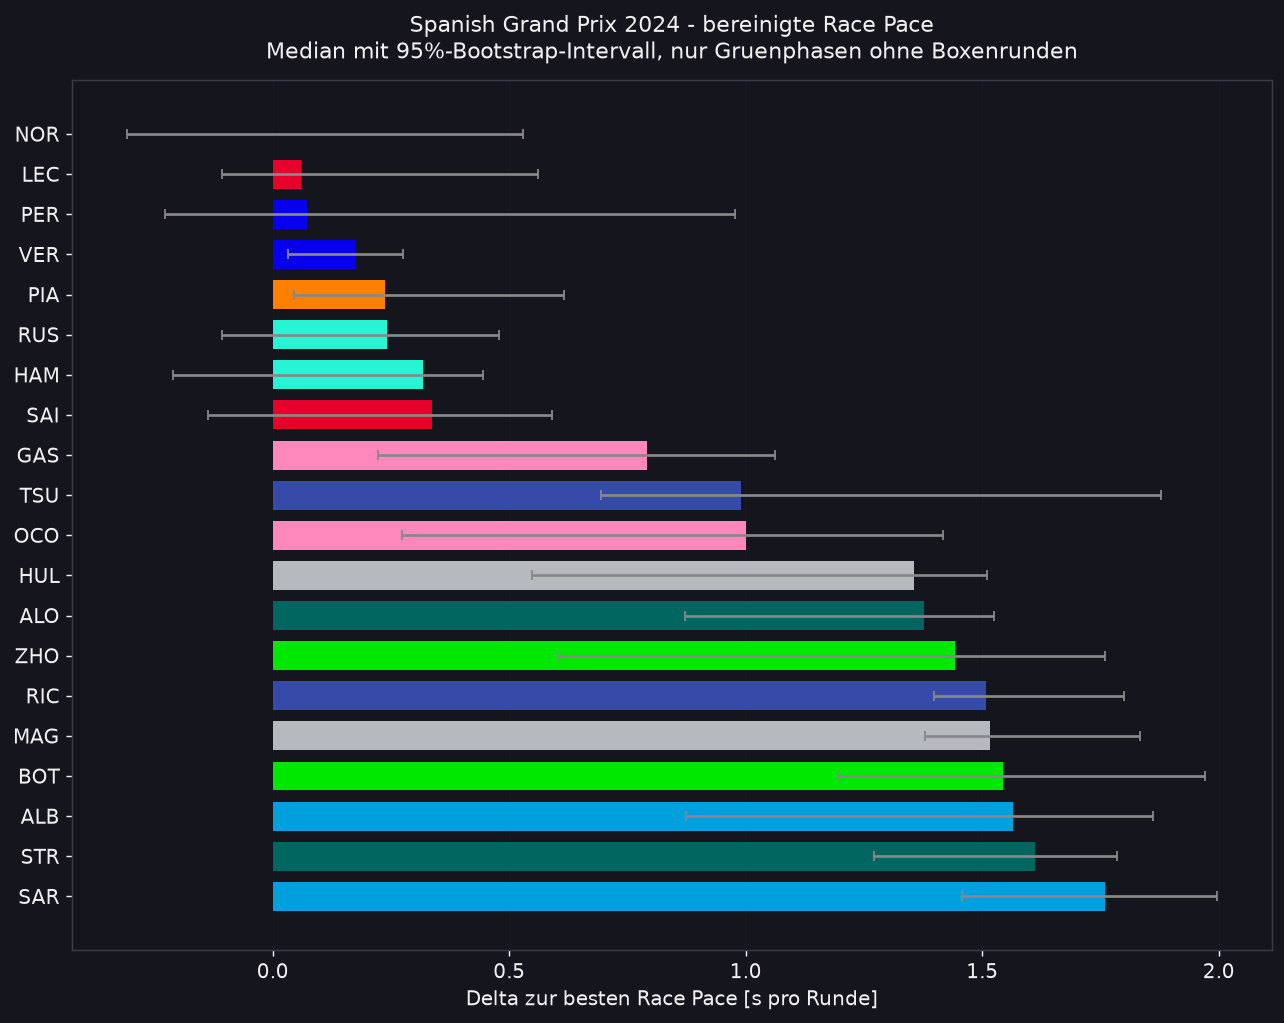
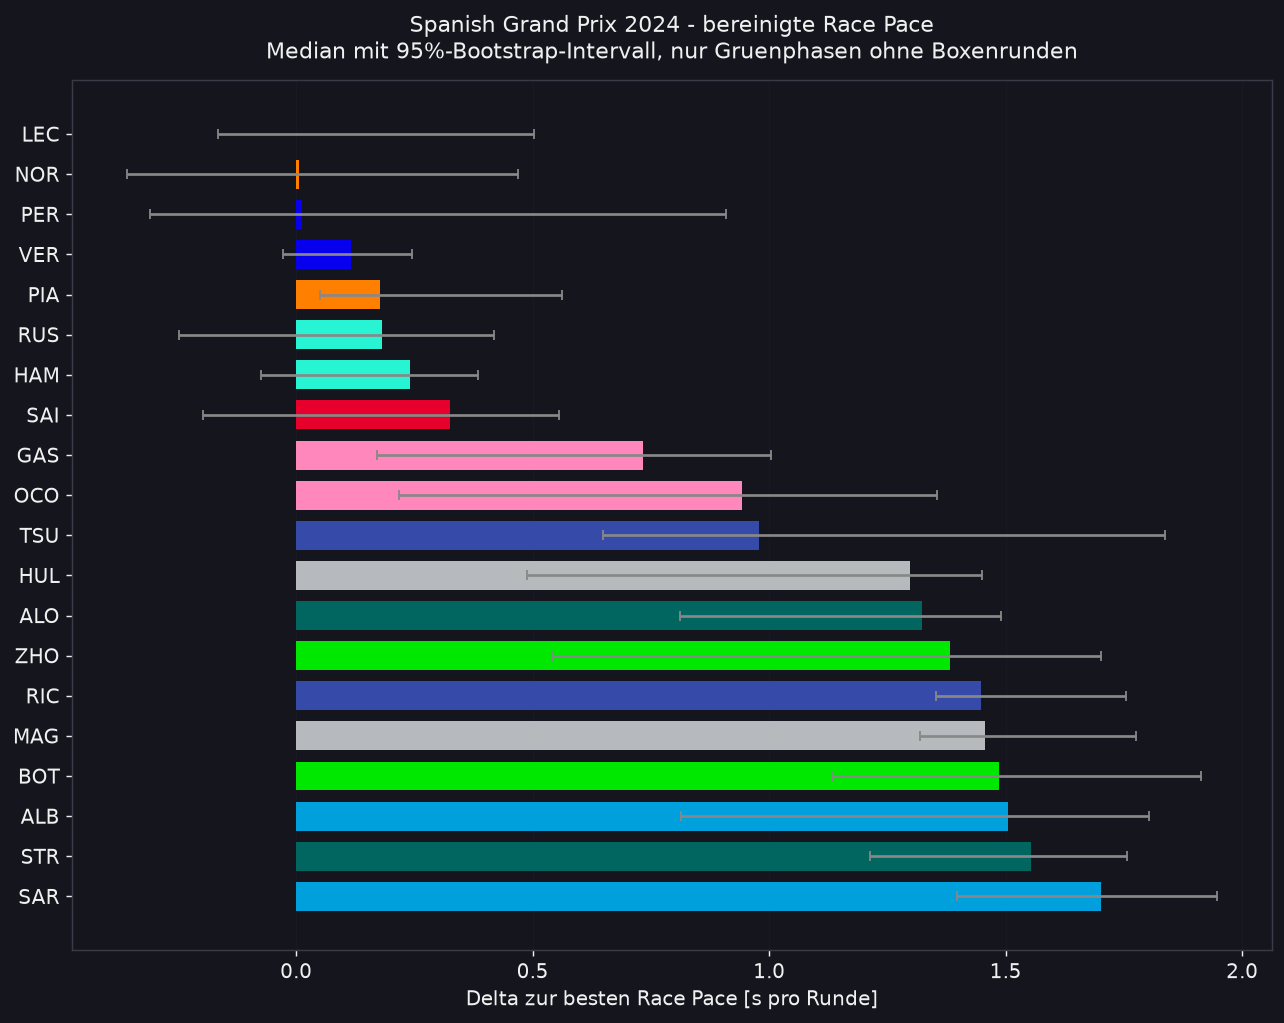
Eine Pipeline: make_assets.py rechnet ueber f1lab
Das Skript hatte eine eigene Kopie der Filterlogik. Nach dem Bugfix an der
Deleted-Spalte lieferten beide Pfade unterschiedliche Ergebnisse fuer
dieselbe Frage - das README nannte Norris als schnellsten Fahrer in
Barcelona, f1lab dagegen Leclerc.

- make_assets.py nutzt jetzt f1lab.load, clean_laps, pace_table, stints,
  degradation und fuel_correct statt eigener Implementierungen
- Grafiken und Kennzahlen neu erzeugt
- README-Zahlen entsprechend aktualisiert, inklusive der Einordnung, dass
  die ersten drei in Barcelona wegen ueberlappender Konfidenzintervalle
  nicht unterscheidbar sind
- kennzahlen.json vermerkt, mit welcher f1lab-Version sie entstand

diff --git a/make_assets.py b/make_assets.py
@@ -4,6 +4,11 @@ Erzeugt die Grafiken und Kennzahlen fuer das README.
 
     python make_assets.py
 
+Alle Auswertungen laufen ueber f1lab - das Modul, das auch getestet wird.
+Frueher hatte dieses Skript eine eigene Kopie der Filterlogik, was nach einem
+Bugfix in f1lab zu zwei unterschiedlichen Ergebnissen fuer dieselbe Frage
+gefuehrt hat. Genau das soll hier nicht mehr passieren.
+
 Schreibt PNGs nach assets/ und die berechneten Werte nach
 assets/kennzahlen.json. Der erste Lauf dauert einige Minuten, weil die
 Sessions heruntergeladen werden - danach kommt alles aus dem Cache.
@@ -15,15 +20,15 @@ import warnings
 from pathlib import Path
 
 import matplotlib
+
 matplotlib.use("Agg")                      # kein Fenster, nur Dateien
 
 import matplotlib.pyplot as plt
 import numpy as np
-import pandas as pd
 from matplotlib.collections import LineCollection
 
-import fastf1
 import fastf1.plotting as f1plt
+import f1lab
 from fastf1.utils import delta_time
 
 warnings.filterwarnings("ignore")
@@ -32,13 +37,12 @@ ROOT = Path(__file__).parent
 ASSETS = ROOT / "assets"
 ASSETS.mkdir(exist_ok=True)
 
-fastf1.Cache.enable_cache(str(Path.home() / "f1_cache"))
+f1lab.enable_cache()
 f1plt.setup_mpl(mpl_timedelta_support=False, color_scheme="fastf1")
 
 DPI = 130
 BG = "#15151e"
 FG = "#f0f0f0"
-ACCENT = "#e10600"
 
 plt.rcParams.update({
     "figure.facecolor": BG, "axes.facecolor": BG,
@@ -58,22 +62,10 @@ def save(fig, name: str) -> None:
     print(f"    -> {path.relative_to(ROOT)}  ({path.stat().st_size // 1024} KB)")
 
 
-def load(year, gp, ident, **kw):
-    ses = fastf1.get_session(year, gp, ident)
-    ses.load(**kw)
-    return ses
-
-
-def clean(session, threshold=1.07):
-    return (session.laps.pick_wo_box().pick_accurate()
-            .pick_track_status("1").pick_not_deleted()
-            .pick_quicklaps(threshold=threshold))
-
-
 # ---------------------------------------------------------------- 1
 def gear_map(year=2024, gp="Belgium"):
     print(f"[1/5] Gangwechsel-Karte  {gp} {year}")
-    ses = load(year, gp, "Q")
+    ses = f1lab.load(year, gp, "Q", telemetry=True)
     lap = ses.laps.pick_fastest()
     tel = lap.get_telemetry()
 
@@ -84,8 +76,8 @@ def gear_map(year=2024, gp="Belgium"):
     pts = np.array([x, y]).T.reshape(-1, 1, 2)
     seg = np.concatenate([pts[:-1], pts[1:]], axis=1)
 
-    cmap = plt.get_cmap("viridis", 8)
-    lc = LineCollection(seg, norm=plt.Normalize(1, 8), cmap=cmap, linewidth=4.5)
+    lc = LineCollection(seg, norm=plt.Normalize(1, 8),
+                        cmap=plt.get_cmap("viridis", 8), linewidth=4.5)
     lc.set_array(gear[:-1])
 
     fig, ax = plt.subplots(figsize=(9, 8))
@@ -115,7 +107,7 @@ def gear_map(year=2024, gp="Belgium"):
 # ---------------------------------------------------------------- 2
 def telemetry_overlay(year=2024, gp="Japan", d1="VER", d2="NOR"):
     print(f"[2/5] Telemetrie-Overlay  {gp} {year}  {d1} vs {d2}")
-    ses = load(year, gp, "Q")
+    ses = f1lab.load(year, gp, "Q", telemetry=True)
     lap1 = ses.laps.pick_drivers(d1).pick_fastest()
     lap2 = ses.laps.pick_drivers(d2).pick_fastest()
     t1 = lap1.get_car_data().add_distance()
@@ -134,7 +126,7 @@ def telemetry_overlay(year=2024, gp="Japan", d1="VER", d2="NOR"):
     ax[1].plot(ref["Distance"], dlt, color=FG, lw=1.4)
     ax[1].axhline(0, color="#666", lw=0.8)
     ax[1].fill_between(ref["Distance"], dlt, 0, where=(dlt > 0),
-                       color=s1.get("color", ACCENT), alpha=0.25)
+                       color=s1.get("color", "#e10600"), alpha=0.25)
     ax[1].fill_between(ref["Distance"], dlt, 0, where=(dlt < 0),
                        color=s2.get("color", "#00d2be"), alpha=0.25)
     ax[1].set_ylabel(f"Delta {d2}\nzu {d1} [s]")
@@ -170,31 +162,16 @@ def telemetry_overlay(year=2024, gp="Japan", d1="VER", d2="NOR"):
 # ---------------------------------------------------------------- 3
 def race_pace(year=2024, gp="Spain"):
     print(f"[3/5] Race-Pace-Ranking  {gp} {year}")
-    ses = load(year, gp, "R", telemetry=False)
-    laps = clean(ses).copy()
-    laps["Sec"] = laps["LapTime"].dt.total_seconds()
+    ses = f1lab.load(year, gp, "R")
 
-    rng = np.random.default_rng(42)
-    rows = []
-    for drv, g in laps.groupby("Driver"):
-        v = g["Sec"].to_numpy()
-        if len(v) < 8:
-            continue
-        boot = [np.median(rng.choice(v, len(v), replace=True)) for _ in range(1000)]
-        rows.append({"Driver": drv, "Team": g["Team"].iloc[0], "Laps": len(v),
-                     "Median": float(np.median(v)),
-                     "Lo": float(np.percentile(boot, 2.5)),
-                     "Hi": float(np.percentile(boot, 97.5))})
-
-    pace = pd.DataFrame(rows).sort_values("Median").reset_index(drop=True)
-    best = pace["Median"].iloc[0]
-    for c in ("Median", "Lo", "Hi"):
-        pace[c + "D"] = pace[c] - best
+    # Genau dieselbe Funktion, die auch in den Tests geprueft wird.
+    pace = f1lab.pace_table(ses)
+    laps_clean = f1lab.clean_laps(ses)
 
     fig, ax = plt.subplots(figsize=(10, 8))
-    colors = [f1plt.get_team_color(t, session=ses) for t in pace["Team"]]
-    err = [pace["MedianD"] - pace["LoD"], pace["HiD"] - pace["MedianD"]]
-    ax.barh(pace["Driver"], pace["MedianD"], xerr=err, color=colors,
+    colors = [f1plt.get_team_color(t, session=ses) for t in pace["team"]]
+    err = [pace["delta_s"] - pace["ci_lo"], pace["ci_hi"] - pace["delta_s"]]
+    ax.barh(pace["driver"], pace["delta_s"], xerr=err, color=colors,
             ecolor="#888", capsize=2.5, height=0.72)
     ax.invert_yaxis()
     ax.set_xlabel("Delta zur besten Race Pace [s pro Runde]")
@@ -205,14 +182,17 @@ def race_pace(year=2024, gp="Spain"):
     plt.tight_layout()
     save(fig, "race_pace.png")
 
+    total = int(len(ses.laps))
+    kept = int(len(laps_clean))
     KPI["racepace"] = {
         "event": str(ses.event["EventName"]), "jahr": year,
-        "runden_gesamt": int(len(ses.laps)),
-        "runden_nach_filter": int(len(laps)),
-        "anteil_verworfen_pct": round(100 * (1 - len(laps) / len(ses.laps)), 1),
-        "schnellster": str(pace["Driver"].iloc[0]),
-        "top5": [{"fahrer": r["Driver"], "team": r["Team"],
-                  "delta_s": round(r["MedianD"], 3), "runden": int(r["Laps"])}
+        "runden_gesamt": total,
+        "runden_nach_filter": kept,
+        "anteil_verworfen_pct": round(100 * (1 - kept / total), 1),
+        "schnellster": str(pace["driver"].iloc[0]),
+        "top5": [{"fahrer": r["driver"], "team": r["team"],
+                  "delta_s": float(r["delta_s"]), "runden": int(r["laps"]),
+                  "ci_breite_s": float(r["ci_width"])}
                  for _, r in pace.head(5).iterrows()],
     }
 
@@ -220,25 +200,23 @@ def race_pace(year=2024, gp="Spain"):
 # ---------------------------------------------------------------- 4
 def strategy(year=2024, gp="Hungary"):
     print(f"[4/5] Strategieuebersicht  {gp} {year}")
-    ses = load(year, gp, "R", telemetry=False)
-    stints = (ses.laps.groupby(["Driver", "Stint", "Compound"])["LapNumber"]
-              .agg(["min", "max", "count"]).reset_index()
-              .rename(columns={"count": "Laenge"}))
+    ses = f1lab.load(year, gp, "R")
+    st = f1lab.stints(ses)
     order = [d for d in ses.results.sort_values("Position")["Abbreviation"]
-             if d in stints["Driver"].values]
+             if d in st["Driver"].values]
 
     fig, ax = plt.subplots(figsize=(11, 8.5))
     for drv in order:
         prev = 0
-        for _, s in stints[stints["Driver"] == drv].sort_values("Stint").iterrows():
+        for _, s in st[st["Driver"] == drv].sort_values("start").iterrows():
             c = f1plt.get_compound_color(s["Compound"], session=ses)
-            ax.barh(drv, s["Laenge"], left=prev, color=c,
+            ax.barh(drv, s["laps"], left=prev, color=c,
                     edgecolor=BG, linewidth=1.2, height=0.72)
-            if s["Laenge"] > 5:
-                ax.text(prev + s["Laenge"] / 2, drv, s["Compound"][0],
+            if s["laps"] > 5:
+                ax.text(prev + s["laps"] / 2, drv, str(s["Compound"])[0],
                         ha="center", va="center", fontsize=8.5,
                         fontweight="bold", color="#111")
-            prev += s["Laenge"]
+            prev += s["laps"]
     ax.invert_yaxis()
     ax.set_xlabel("Runde")
     ax.grid(axis="x", alpha=0.2)
@@ -249,56 +227,48 @@ def strategy(year=2024, gp="Hungary"):
 
     KPI["strategie"] = {
         "event": str(ses.event["EventName"]), "jahr": year,
-        "stints_gesamt": int(len(stints)),
-        "stints_pro_fahrer": round(len(stints) / max(len(order), 1), 2),
+        "stints_gesamt": int(len(st)),
+        "stints_pro_fahrer": round(len(st) / max(len(order), 1), 2),
         "laenge_je_compound": {
-            k: round(float(v), 1) for k, v in
-            stints.groupby("Compound")["Laenge"].mean().items()},
+            str(k): round(float(v), 1) for k, v in
+            st.groupby("Compound")["laps"].mean().items()},
     }
 
 
 # ---------------------------------------------------------------- 5
 def degradation(year=2024, gp="Bahrain"):
     print(f"[5/5] Reifendegradation  {gp} {year}")
-    ses = load(year, gp, "R", telemetry=False)
-    laps = clean(ses, threshold=1.10).copy()
-    laps["Sec"] = laps["LapTime"].dt.total_seconds()
-    total = ses.total_laps
-    laps["Corr"] = laps["Sec"] - (total - laps["LapNumber"]) * 1.8 * 0.03
+    ses = f1lab.load(year, gp, "R")
 
-    rows = []
-    for (drv, st), g in laps.groupby(["Driver", "Stint"]):
-        g = g.sort_values("TyreLife")
-        if len(g) < 6:
-            continue
-        slope, inter = np.polyfit(g["TyreLife"], g["Corr"], 1)
-        rows.append({"Driver": drv, "Team": g["Team"].iloc[0],
-                     "Compound": g["Compound"].iloc[0], "Laps": len(g),
-                     "Deg": float(slope), "Basis": float(inter)})
-    deg = pd.DataFrame(rows)
+    deg = f1lab.degradation(ses)
+    agg = f1lab.degradation_by_compound(ses)
+
+    laps = f1lab.clean_laps(ses, threshold=1.10).copy()
+    laps["sec"] = laps["LapTime"].dt.total_seconds()
+    laps["corrected"] = f1lab.fuel_correct(
+        laps["sec"], laps["LapNumber"], ses.total_laps)
 
     fig, ax = plt.subplots(1, 2, figsize=(13, 5.5),
                            gridspec_kw={"width_ratios": [3, 2]})
 
-    for (drv, st), g in laps.groupby(["Driver", "Stint"]):
+    for (_drv, _st), g in laps.groupby(["Driver", "Stint"]):
         if len(g) < 6:
             continue
         c = f1plt.get_compound_color(g["Compound"].iloc[0], session=ses)
-        ax[0].plot(g["TyreLife"], g["Corr"], marker=".", ms=3.5, lw=0.9,
+        ax[0].plot(g["TyreLife"], g["corrected"], marker=".", ms=3.5, lw=0.9,
                    alpha=0.55, color=c)
     ax[0].set_xlabel("Reifenalter [Runden]")
     ax[0].set_ylabel("Rundenzeit, fuel-korrigiert [s]")
     ax[0].grid(alpha=0.2)
     ax[0].set_title("Jeder Stint einzeln", color=FG, fontsize=11)
 
-    agg = deg.groupby("Compound")["Deg"].agg(["mean", "std", "count"])
-    agg = agg.sort_values("mean")
     cols = [f1plt.get_compound_color(c, session=ses) for c in agg.index]
     ax[1].bar(agg.index, agg["mean"], yerr=agg["std"], color=cols,
               ecolor="#888", capsize=4)
     ax[1].set_ylabel("Degradation [s pro Runde]")
     ax[1].grid(axis="y", alpha=0.2)
-    ax[1].set_title("Mittelwert je Mischung", color=FG, fontsize=11)
+    ax[1].set_title("Mittelwert je Mischung\n(nur belastbare Fits)",
+                    color=FG, fontsize=11)
 
     fig.suptitle(f"{ses.event['EventName']} {year} - Reifendegradation "
                  f"(Fuel-Effekt herausgerechnet)", color=FG, fontsize=13)
@@ -307,11 +277,12 @@ def degradation(year=2024, gp="Bahrain"):
 
     KPI["degradation"] = {
         "event": str(ses.event["EventName"]), "jahr": year,
-        "stints_ausgewertet": int(len(deg)),
+        "stints_gesamt": int(len(deg)),
+        "stints_belastbar": int(deg["reliable"].sum()),
         "je_compound": {
             str(c): {"mittel_s_pro_runde": round(float(r["mean"]), 4),
                      "std": round(float(r["std"]), 4),
-                     "stints": int(r["count"])}
+                     "stints": int(r["stints"])}
             for c, r in agg.iterrows()},
         "annahme_fuel": "1.8 kg pro Runde, 0.03 s pro kg",
     }
@@ -319,15 +290,24 @@ def degradation(year=2024, gp="Bahrain"):
 
 # ----------------------------------------------------------------
 if __name__ == "__main__":
-    print("\nErzeuge README-Grafiken. Der erste Lauf dauert einige Minuten.\n")
+    print(f"\nErzeuge README-Grafiken mit f1lab {f1lab.__version__}.")
+    print("Der erste Lauf dauert einige Minuten.\n")
+
     for fn in (gear_map, telemetry_overlay, race_pace, strategy, degradation):
         try:
             fn()
         except Exception as exc:
-            print(f"    FEHLER in {fn.__name__}: {exc}")
-            KPI[fn.__name__] = {"fehler": str(exc)}
+            print(f"    FEHLER in {fn.__name__}: {type(exc).__name__}: {exc}")
+            KPI[fn.__name__] = {"fehler": f"{type(exc).__name__}: {exc}"}
+
+    KPI["_meta"] = {
+        "erzeugt_mit": f"f1lab {f1lab.__version__}",
+        "hinweis": "Alle Werte stammen aus f1lab - denselben Funktionen, "
+                   "die von tests/ geprueft werden.",
+    }
 
     out = ASSETS / "kennzahlen.json"
-    out.write_text(json.dumps(KPI, indent=2, ensure_ascii=False), encoding="utf-8")
+    out.write_text(json.dumps(KPI, indent=2, ensure_ascii=False),
+                   encoding="utf-8")
     print(f"\nKennzahlen: {out.relative_to(ROOT)}")
     print(f"Grafiken:   {len(list(ASSETS.glob('*.png')))} PNGs in assets/\n")

diff --git a/README.md b/README.md
@@ -56,12 +56,21 @@ Distanz interpoliert — nötig, weil die Telemetrie nicht synchron abgetastet w
 Die naive Auswertung aller Rundenzeiten ist wertlos: Out-Laps, In-Laps,
 Safety-Car-Phasen und gestrichene Runden verzerren jede Verteilung. Nach dem Filter
 auf grüne Flagge, ohne Boxenrunden, ohne Ausreißer über 107 % bleiben in Barcelona
-2024 noch **1113 von 1310 Runden** übrig — 15 % fliegen raus.
+2024 noch **1124 von 1310 Runden** übrig — 14 % fliegen raus.
 
-Erst danach lässt sich rechnen. Norris war der Schnellste, Leclerc lag **0.059 s**
-dahinter, Verstappen **0.177 s**. Die Balken tragen ein Bootstrap-Konfidenzintervall
-über 1000 Resamples: Wo sich Intervalle überlappen, ist der Unterschied nicht
-belegbar — bei den ersten drei ist genau das der Fall.
+Erst danach lässt sich rechnen. Leclerc war der Schnellste, Norris lag **0.007 s**
+dahinter, Pérez **0.013 s**, Verstappen **0.117 s**.
+
+Und genau hier wird es interessant: Die Balken tragen ein
+Bootstrap-Konfidenzintervall über 1000 Resamples, und das der ersten drei ist
+zwischen 0.67 und 1.22 s breit. Der Abstand zwischen ihnen beträgt Hundertstel.
+Die ehrliche Aussage lautet deshalb nicht „Leclerc war schneller als Norris",
+sondern: **die drei sind mit diesen Daten nicht unterscheidbar.** Verstappen hat
+mit 0.27 s das schmalste Intervall — er war am gleichmäßigsten unterwegs, nicht
+zwingend am schnellsten.
+
+`Interval.overlaps()` macht diesen Vergleich explizit, statt ihn dem Auge zu
+überlassen.
 
 *Code: [`02_timing/p04_race_pace_ranking_wer_war_wirklich_am_schnellste.py`](02_timing/p04_race_pace_ranking_wer_war_wirklich_am_schnellste.py)*
 
@@ -88,9 +97,14 @@ wird gleichzeitig leichter. Wer beides nicht trennt, unterschätzt die Degradati
 systematisch. Hier ist der Treibstoffeffekt herausgerechnet (1.8 kg pro Runde,
 0.03 s pro kg), danach wird je Stint eine Regression über das Reifenalter gelegt.
 
-Bahrain 2024, 62 auswertbare Stints: **Soft 0.127 s/Runde**, **Hard 0.092 s/Runde**.
-Der Soft baut also rund 40 % schneller ab — bei einer Streuung, die zeigt, wie stark
-Fahrstil und Auto die Zahl beeinflussen.
+Bahrain 2024, **59 von 62 Stints** bestehen die Plausibilitätsprüfung (mindestens
+6 Runden, R² ≥ 0.3): **Soft 0.133 s/Runde**, **Hard 0.097 s/Runde**. Der Soft baut
+also gut ein Drittel schneller ab.
+
+Die Streuung ist dabei aufschlussreicher als der Mittelwert: beim Hard liegt sie bei
+0.024, beim Soft bei 0.057 s/Runde. Der weiche Reifen reagiert also deutlich
+empfindlicher auf Fahrstil und Fahrzeugbalance — was erklärt, warum manche Fahrer
+mit derselben Mischung ganz andere Stintlängen hinbekommen als andere.
 
 *Code: [`05_reifen_strategie/p13_reifendegradation_modellieren.py`](05_reifen_strategie/p13_reifendegradation_modellieren.py)*
 
@@ -288,6 +302,15 @@ python make_assets.py
 
 Schreibt die PNGs nach `assets/` und die berechneten Kennzahlen nach
 `assets/kennzahlen.json` — die Zahlen im Text oben stammen genau daher.
+
+Wichtiger noch: Das Skript rechnet nichts selbst, sondern ruft `f1lab` auf. Damit
+liefern README, Grafiken und Paket zwangsläufig dieselben Werte.
+
+Das war nicht immer so. Anfangs hatte `make_assets.py` eine eigene Kopie der
+Filterlogik. Nach dem Bugfix an der `Deleted`-Spalte lieferten beide Pfade
+unterschiedliche Ergebnisse für dieselbe Frage — das README behauptete, Norris sei
+in Barcelona am schnellsten gewesen, das Paket sagte Leclerc. Zwei Pipelines sind
+zwei Wahrheiten, und eine davon ist immer falsch.
 
 ---
 
